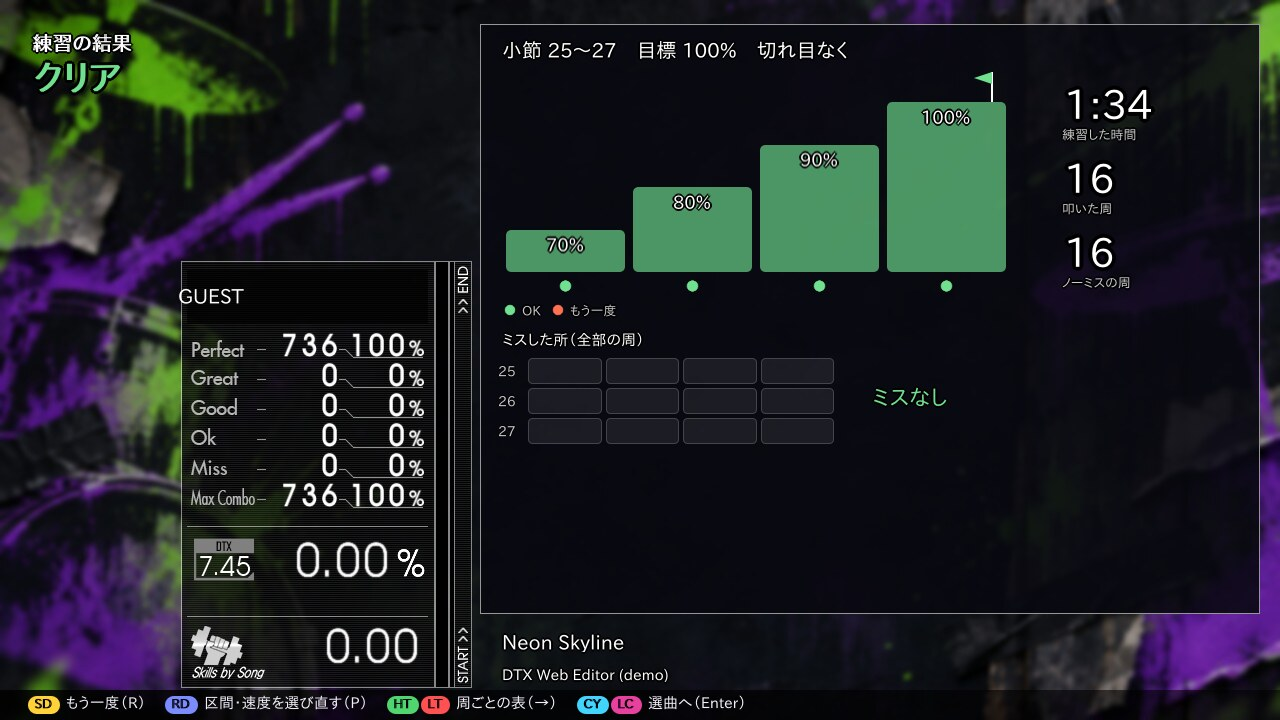
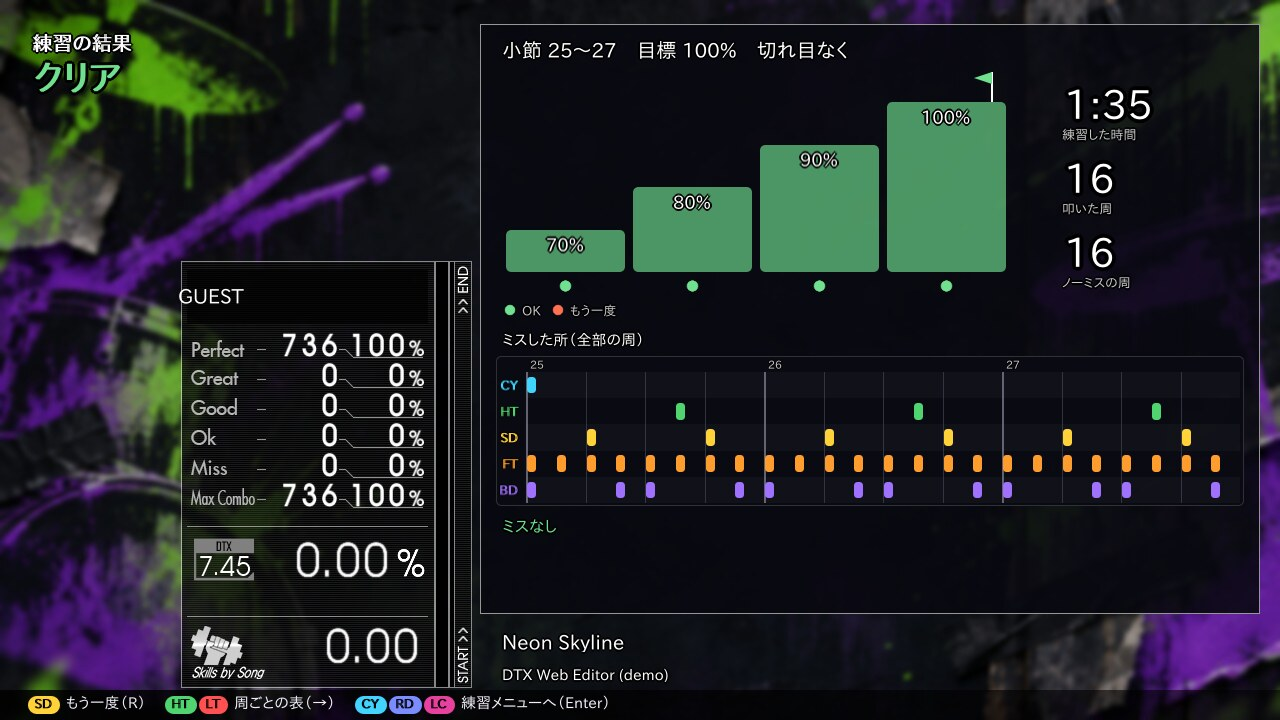
README の練習の説明と画面を練習メニュー（0.9.1）に合わせる
- 最新の main を取り込み、README の使い方の変更は docs/guide.ja.md に移した
- 練習の画面（メニュー・段・クリア・結果）を練習メニューのある版で英語・日本語とも撮り直した
- practice-setup.jpg は練習メニューの画面になったので practice-menu.jpg に名前を変えた

Claude-Session: https://claude.ai/code/session_0141xt8Aa9GeA94DuKDR3itV

diff --git a/README.ja.md b/README.ja.md
@@ -109,7 +109,7 @@ DTXManiaNX で遊んでいた曲なら、`score.ini` に残っている自己ベ
 
 <p align="center"><img src="docs/readme/practice.ja.svg" width="960" alt="段をのぼってクリア。70・80・90・100 % の各段を 4 周ずつ。区間のマップには、1 回ミスした拍が黄色、2 回ミスした拍が赤で表示される。同じ拍で 2 回ミスするとその段をやり直し、やり直しが 2 回続くと 1 段下がる"></p>
 
-選曲画面かリザルト画面で <kbd>P</kbd> キーを押すと（電子ドラムなら RD で開く簡易設定から）、練習する区間を選べます。苦手フレーズの一覧から選ぶこともできます。区間はカウントとメトロノーム付きでループし、遅めのテンポから目標のテンポまで少しずつ上げていきます。
+選曲画面かリザルト画面で <kbd>P</kbd> キーを押すと、練習メニューが開きます（電子ドラムなら、リザルト画面は RD、選曲画面は RD で開く簡易設定の一番上）。これまでのプレイから出した苦手な所が並び、それぞれに区間の譜面の絵が付きます。よくミスする音には印が付くので、小節の番号だけでなく、どのフレーズのことかが見て分かります。選んでいる所の音もくり返し流れます。苦手な所を選ぶか、自分で小節を選んで始めます。区間はカウントとメトロノーム付きでループし、遅めのテンポから目標のテンポまで少しずつ上げていきます。練習を終えると練習メニューに戻り、次の苦手な所にカーソルが移ります。
 
 - **1 段は 4 周。** 同じ拍で 2 回ミスしなければ、止まらずに次のテンポへ進みます。
 - **同じ拍で 2 回ミスすると**、その段をやり直します。やり直しが 2 回続くと、テンポを 10 % 下げます。
@@ -119,22 +119,22 @@ DTXManiaNX で遊んでいた曲なら、`score.ini` に残っている自己ベ
 <table>
 <tr>
 <td width="50%" valign="top">
-<img src="docs/readme/shots/practice-step.ja.gif" alt="練習中。ノーミスで周が終わり「OK! 次は 80%」と表示され、右の段の図が 1 段上がる">
-<br><sub>ノーミスで 1 段クリア。次のテンポへ進みます。</sub>
+<img src="docs/readme/shots/practice-menu.ja.jpg" alt="練習メニュー。全小節の帯、苦手な所の一覧（それぞれに小さな譜面の絵）、選んだ所の大きな譜面の絵。よくミスする音には、ミスした回数の印が付く。下に 70・80・90・100% の段">
+<br><sub>練習メニュー。苦手な所が譜面の絵で分かります。</sub>
 </td>
 <td width="50%" valign="top">
-<img src="docs/readme/shots/practice-clear.ja.gif" alt="練習中。100% の最後の周が終わり、レーンの上に「クリア！」と表示される">
-<br><sub>最後の段をクリア。</sub>
+<img src="docs/readme/shots/practice-step.ja.gif" alt="練習中。ノーミスで周が終わり「OK! 次は 80%」と表示され、右の段の図が 1 段上がる">
+<br><sub>ノーミスで 1 段クリア。次のテンポへ進みます。</sub>
 </td>
 </tr>
 <tr>
 <td valign="top">
-<img src="docs/readme/shots/practice-setup.ja.jpg" alt="区間練習の設定画面。全小節の帯の上に選んだ区間、苦手フレーズの一覧、ループのしかた・テンポの上げ方・音程・メトロノームの設定">
-<br><sub>区間・テンポ・メトロノームを選ぶ画面。</sub>
+<img src="docs/readme/shots/practice-clear.ja.gif" alt="練習中。100% の最後の周が終わり、レーンの上に「クリア！」と表示される">
+<br><sub>最後の段をクリア。</sub>
 </td>
 <td valign="top">
-<img src="docs/readme/shots/practice-result.ja.jpg" alt="練習の結果。70% から 100% までの段がすべてクリア。練習時間、叩いた周回数、ノーミスの周回数、ミスした場所のマップ">
-<br><sub>練習の結果。どこでミスしたかも分かります。</sub>
+<img src="docs/readme/shots/practice-result.ja.jpg" alt="練習の結果。70% から 100% までの段がすべてクリア。練習時間、叩いた周回数、ノーミスの周回数と、ミスした音に印を付ける区間の譜面の絵">
+<br><sub>練習の結果。どこでミスしたかも分かります。このあと練習メニューに戻ります。</sub>
 </td>
 </tr>
 </table>

diff --git a/README.md b/README.md
@@ -108,7 +108,7 @@ If you played these songs in DTXManiaNX, the best results in its `score.ini` fil
 
 <p align="center"><img src="docs/readme/practice.svg" width="960" alt="Climb the steps to clear: four laps per step at 70, 80, 90 and 100 percent. A map of the section marks beats missed once in yellow and twice in red. Missing the same beat twice means try that step again, and two tries again in a row drop one step."></p>
 
-Press <kbd>P</kbd> on song select or the result screen (on drums, open quick settings with RD), pick a few bars or one of your weak phrases, and start. The section loops with a count-in and a metronome, from a slower speed up to your target.
+Press <kbd>P</kbd> on song select or the result screen to open the practice menu (on drums: RD on the result screen, or RD then CY on song select). It lists your weak spots from past plays. Each one comes with a picture of its notes, and the notes you often miss are marked, so you can see which phrase it is, not just a bar number. The selected spot also plays on a loop so you can hear it. Pick one, or choose your own bars, and start. The section loops with a count-in and a metronome, from a slower speed up to your target. When you finish, you are back in the practice menu with the next weak spot selected.
 
 - **One step is 4 laps.** If you don't miss the same beat twice, you move up to the next speed without stopping.
 - **Same beat missed twice?** You try that step again. Two tries in a row and it steps down 10 %.
@@ -118,22 +118,22 @@ Press <kbd>P</kbd> on song select or the result screen (on drums, open quick set
 <table>
 <tr>
 <td width="50%" valign="top">
-<img src="docs/readme/shots/practice-step.gif" alt="Practice: a lap ends with no misses, the banner says OK! Next: 80%, and the step ladder on the right moves up.">
-<br><sub>No misses, so it moves up to the next speed.</sub>
+<img src="docs/readme/shots/practice-menu.jpg" alt="Practice menu: a bar of all measures, the list of weak spots with a small picture of the notes for each, and a large picture of the selected spot where often-missed notes are marked with how many times they were missed. Below it, the speed steps 70, 80, 90 and 100%.">
+<br><sub>The practice menu: your weak spots, drawn as notes.</sub>
 </td>
 <td width="50%" valign="top">
-<img src="docs/readme/shots/practice-clear.gif" alt="Practice: the last lap at 100% ends and CLEAR! appears over the lanes.">
-<br><sub>The top step cleared.</sub>
+<img src="docs/readme/shots/practice-step.gif" alt="Practice: a lap ends with no misses, the banner says OK! Next: 80%, and the step ladder on the right moves up.">
+<br><sub>No misses, so it moves up to the next speed.</sub>
 </td>
 </tr>
 <tr>
 <td valign="top">
-<img src="docs/readme/shots/practice-setup.jpg" alt="Practice setup: a bar of all measures with the chosen section highlighted, the weak phrases list, and options for looping, speed steps, pitch and metronome.">
-<br><sub>Choose the section, the speeds and the metronome.</sub>
+<img src="docs/readme/shots/practice-clear.gif" alt="Practice: the last lap at 100% ends and CLEAR! appears over the lanes.">
+<br><sub>The top step cleared.</sub>
 </td>
 <td valign="top">
-<img src="docs/readme/shots/practice-result.jpg" alt="Practice result: the ladder from 70% to 100% all cleared, practice time, laps played and laps with no misses, and a map of where misses happened.">
-<br><sub>What you practised and where you missed.</sub>
+<img src="docs/readme/shots/practice-result.jpg" alt="Practice result: the ladder from 70% to 100% all cleared, practice time, laps played and laps with no misses, and the notes of the section with any missed ones marked.">
+<br><sub>What you practised and where you missed. Next, back to the practice menu.</sub>
 </td>
 </tr>
 </table>
